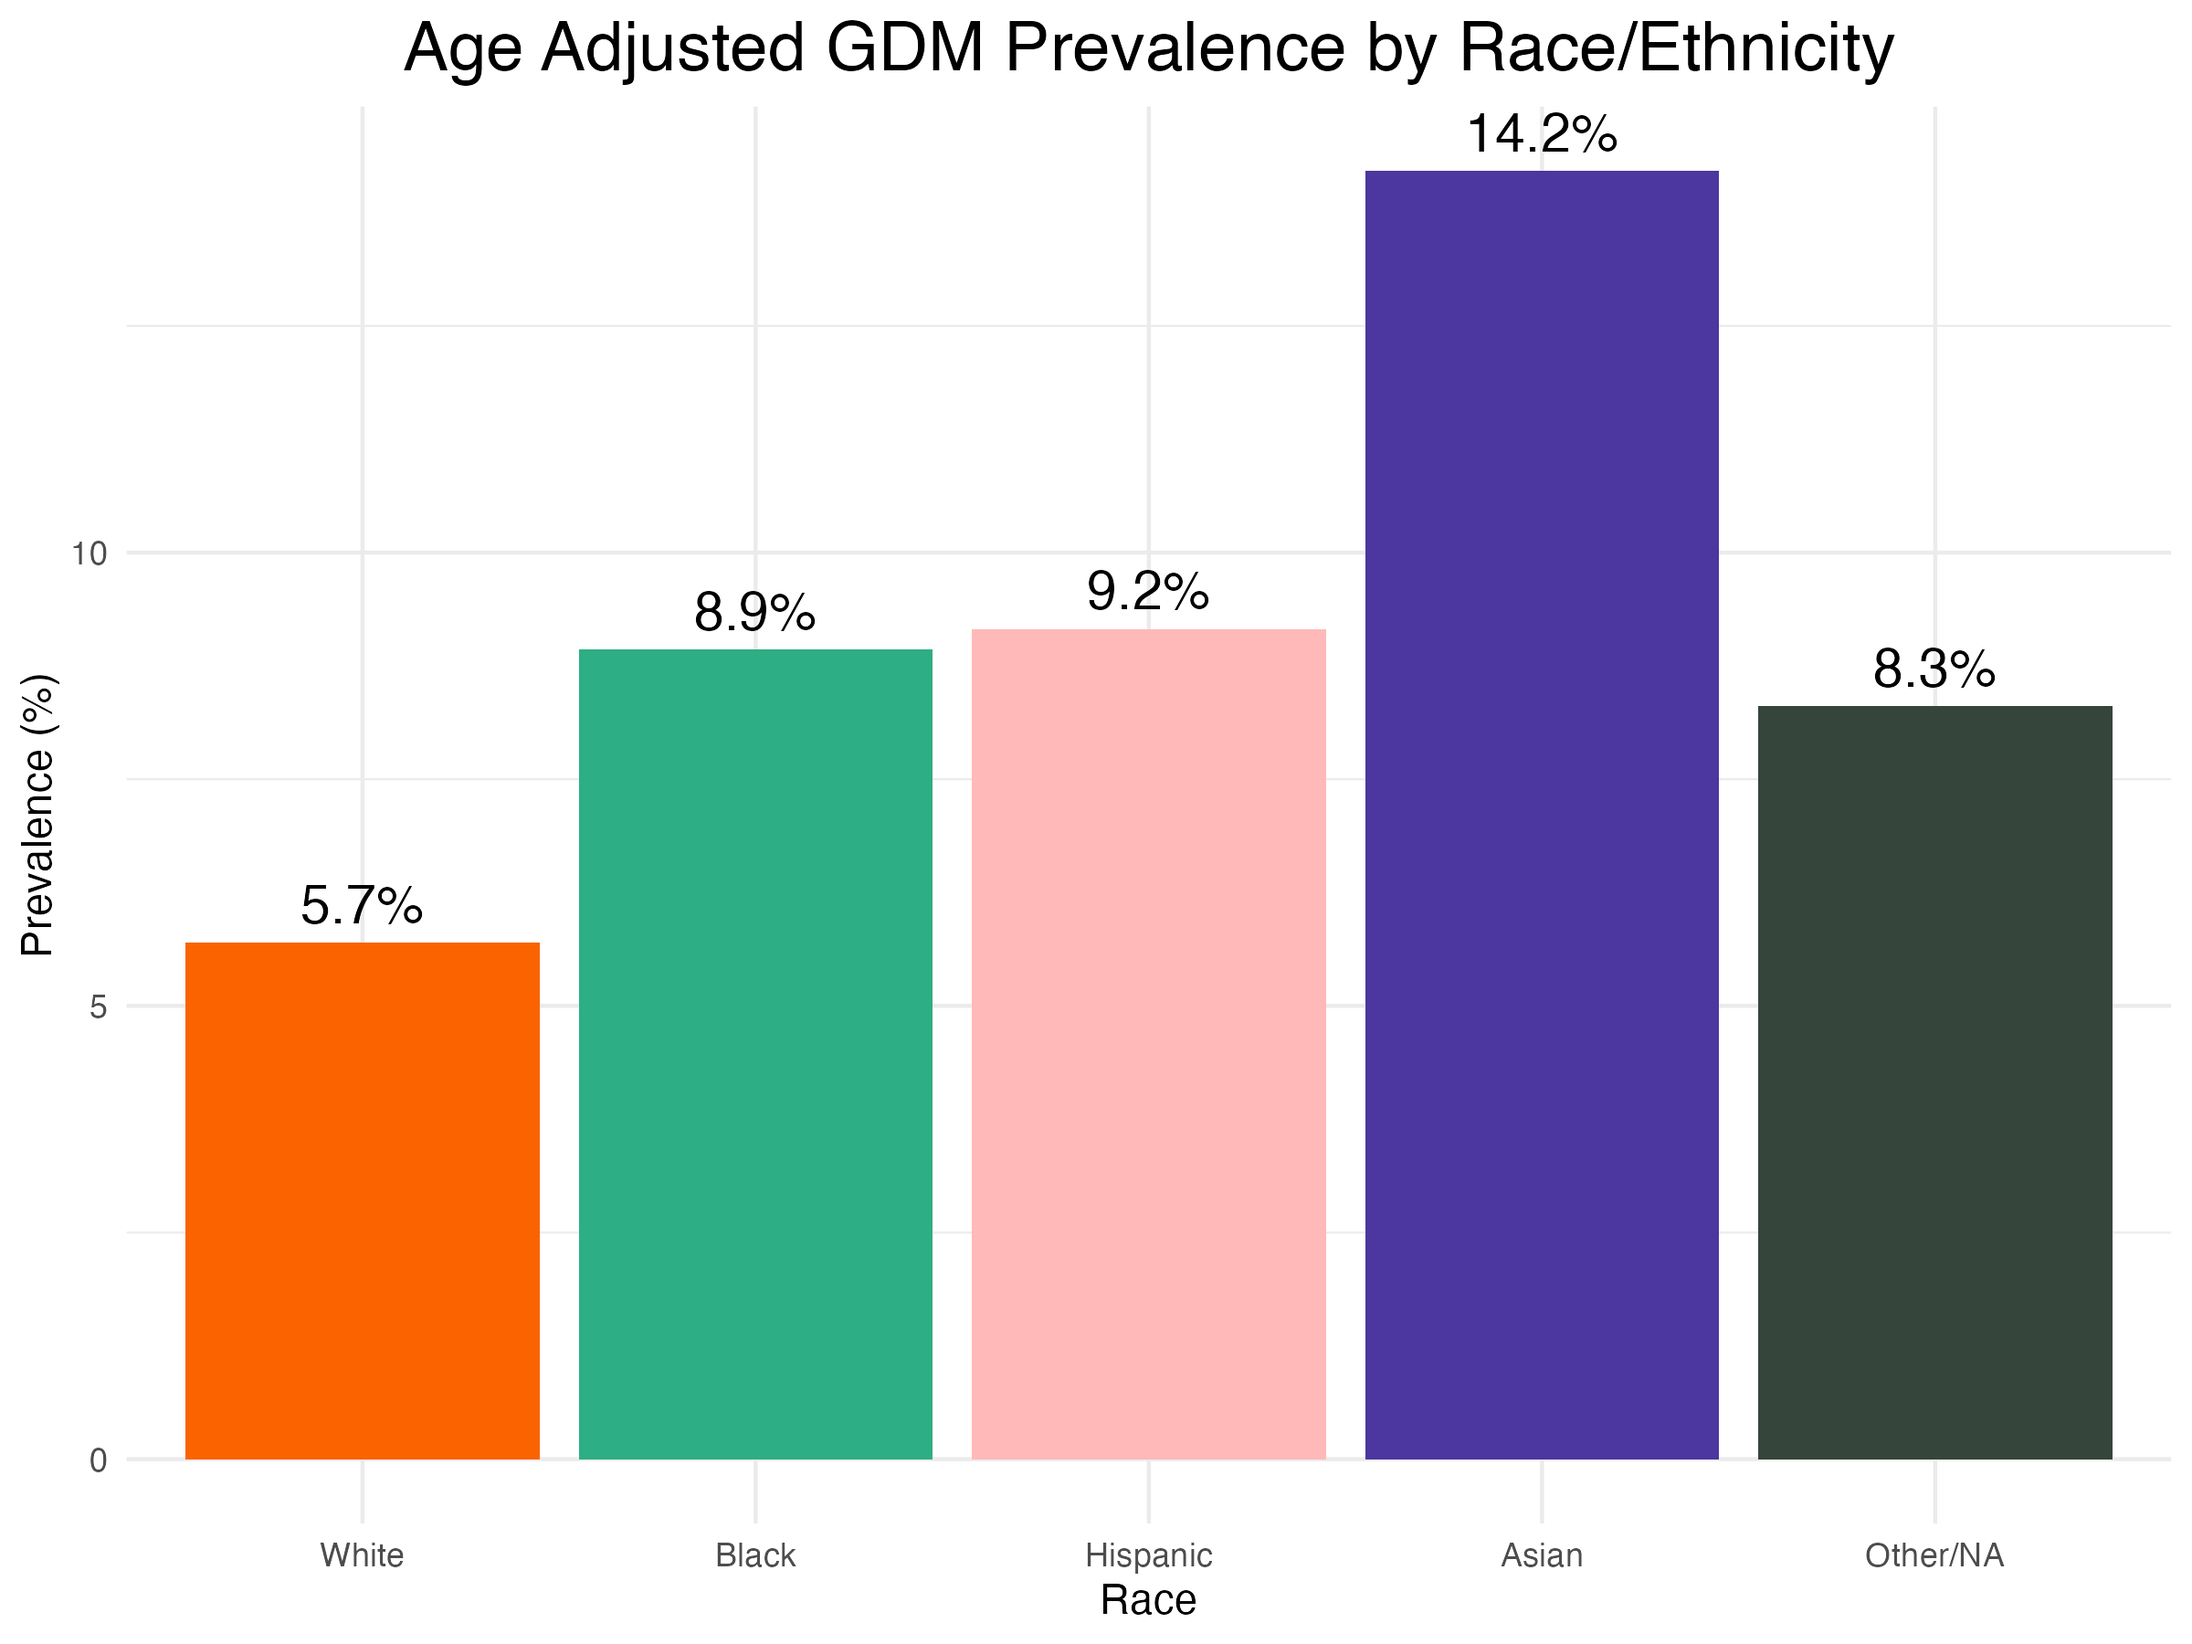
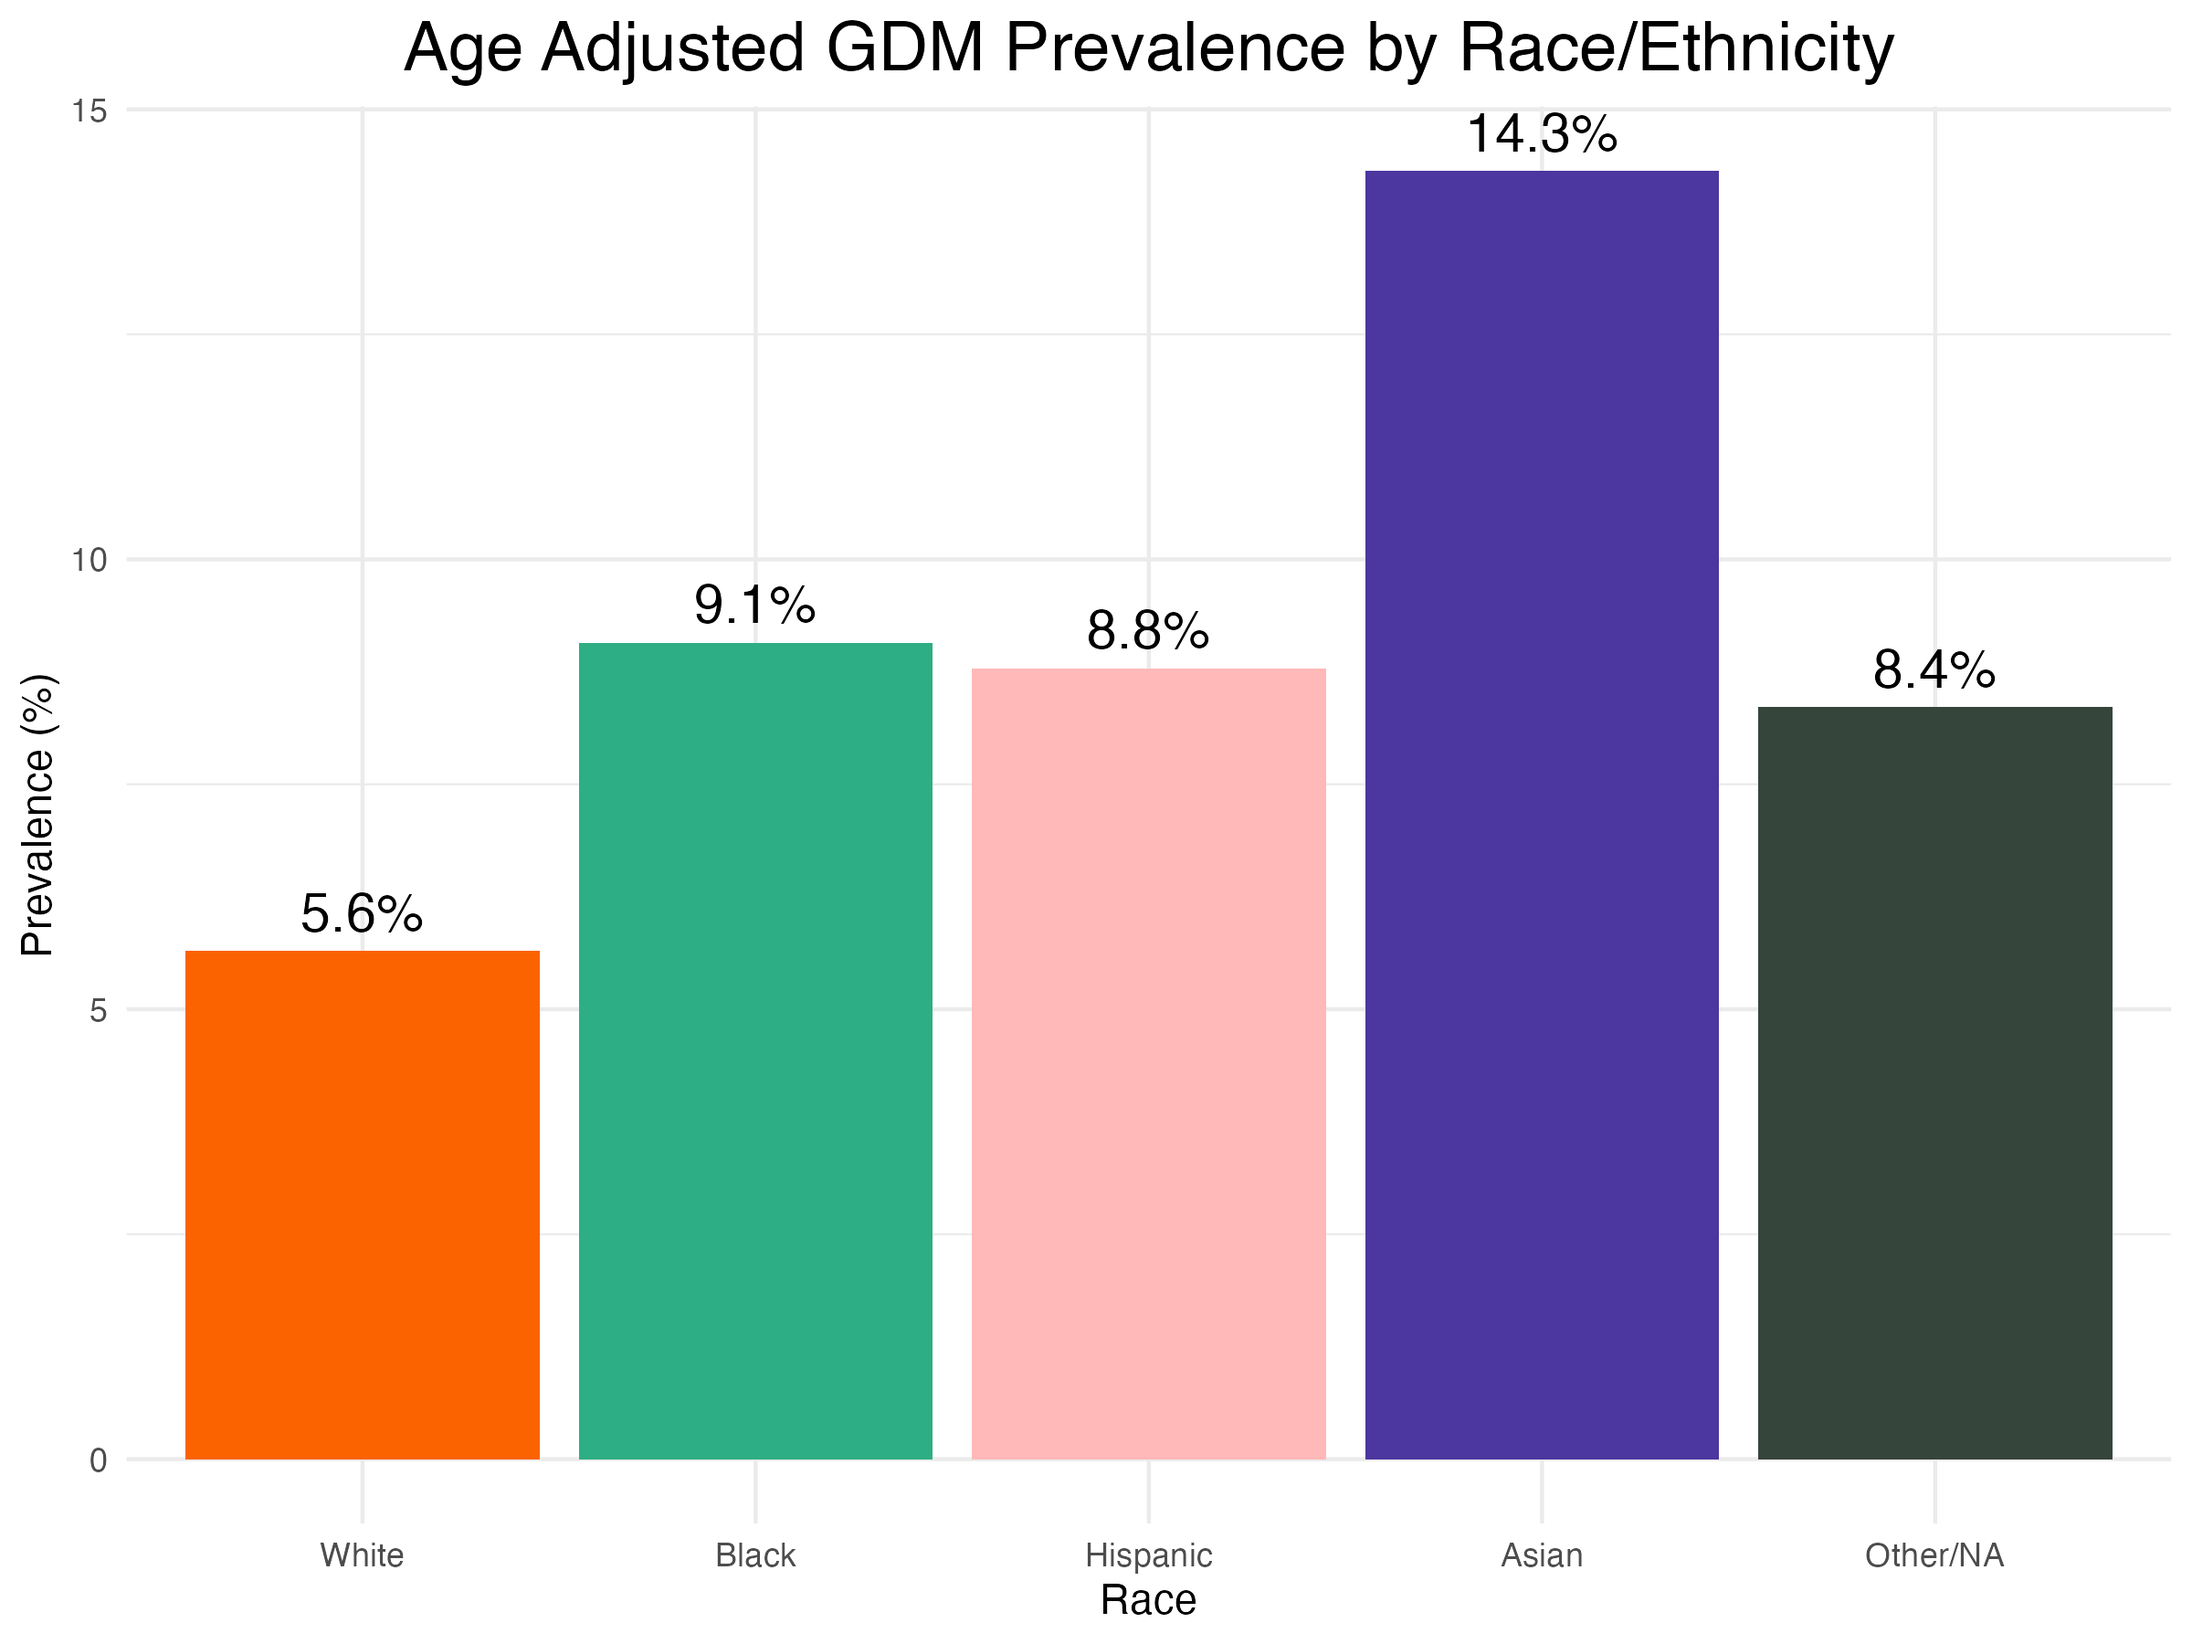
graphs and tables

diff --git a/regression_table.html b/regression_table.html
@@ -19,11 +19,11 @@
 <tr><td style="text-align:left">Age</td><td></td><td>1.062<sup>***</sup></td><td></td><td>1.064<sup>***</sup></td><td>1.064<sup>***</sup></td><td>1.079<sup>***</sup></td><td>1.054<sup>***</sup></td></tr>
 <tr><td style="text-align:left"></td><td></td><td>(0.006)</td><td></td><td>(0.006)</td><td>(0.007)</td><td>(0.010)</td><td>(0.008)</td></tr>
 <tr><td style="text-align:left"></td><td></td><td></td><td></td><td></td><td></td><td></td><td></td></tr>
-<tr><td style="text-align:left">Medicaid</td><td></td><td></td><td>1.095</td><td>1.369<sup>***</sup></td><td>1.139</td><td></td><td></td></tr>
-<tr><td style="text-align:left"></td><td></td><td></td><td>(0.077)</td><td>(0.101)</td><td>(0.090)</td><td></td><td></td></tr>
+<tr><td style="text-align:left">Medicaid</td><td></td><td></td><td>0.913</td><td>0.730<sup>***</sup></td><td>0.878</td><td></td><td></td></tr>
+<tr><td style="text-align:left"></td><td></td><td></td><td>(0.064)</td><td>(0.054)</td><td>(0.069)</td><td></td><td></td></tr>
 <tr><td style="text-align:left"></td><td></td><td></td><td></td><td></td><td></td><td></td><td></td></tr>
-<tr><td style="text-align:left">Constant</td><td>0.062<sup>***</sup></td><td>0.009<sup>***</sup></td><td>0.080<sup>***</sup></td><td>0.011<sup>***</sup></td><td>0.008<sup>***</sup></td><td>0.008<sup>***</sup></td><td>0.011<sup>***</sup></td></tr>
-<tr><td style="text-align:left"></td><td>(0.004)</td><td>(0.002)</td><td>(0.003)</td><td>(0.002)</td><td>(0.002)</td><td>(0.003)</td><td>(0.003)</td></tr>
+<tr><td style="text-align:left">Constant</td><td>0.062<sup>***</sup></td><td>0.009<sup>***</sup></td><td>0.088<sup>***</sup></td><td>0.015<sup>***</sup></td><td>0.010<sup>***</sup></td><td>0.008<sup>***</sup></td><td>0.011<sup>***</sup></td></tr>
+<tr><td style="text-align:left"></td><td>(0.004)</td><td>(0.002)</td><td>(0.005)</td><td>(0.003)</td><td>(0.002)</td><td>(0.003)</td><td>(0.003)</td></tr>
 <tr><td style="text-align:left"></td><td></td><td></td><td></td><td></td><td></td><td></td><td></td></tr>
 <tr><td colspan="8" style="border-bottom: 1px solid black"></td></tr><tr><td style="text-align:left">Observations</td><td>12,605</td><td>12,605</td><td>12,605</td><td>12,605</td><td>12,605</td><td>4,165</td><td>8,440</td></tr>
 <tr><td colspan="8" style="border-bottom: 1px solid black"></td></tr><tr><td style="text-align:left"><em>Note:</em></td><td colspan="7" style="text-align:right"><sup>*</sup>p<0.05; <sup>**</sup>p<0.01; <sup>***</sup>p<0.001</td></tr>

diff --git a/summary_table.html b/summary_table.html
@@ -1,16 +1,16 @@
 
 <table style="text-align:center"><caption><strong>Pregnancy Data Summary</strong></caption>
 <tr><td colspan="3" style="border-bottom: 1px solid black"></td></tr><tr><td style="text-align:left">Variable</td><td>All</td><td>GDM_Only</td></tr>
-<tr><td colspan="3" style="border-bottom: 1px solid black"></td></tr><tr><td style="text-align:left">N</td><td>12605</td><td>962</td></tr>
-<tr><td style="text-align:left">Mean_Age</td><td>29.92</td><td>31.6</td></tr>
-<tr><td style="text-align:left">White</td><td>5700</td><td>335</td></tr>
-<tr><td style="text-align:left">Black</td><td>2894</td><td>227</td></tr>
-<tr><td style="text-align:left">Hispanic</td><td>1270</td><td>100</td></tr>
-<tr><td style="text-align:left">Asian</td><td>1101</td><td>160</td></tr>
-<tr><td style="text-align:left">Other</td><td>1640</td><td>140</td></tr>
+<tr><td colspan="3" style="border-bottom: 1px solid black"></td></tr><tr><td style="text-align:left">N</td><td>12990</td><td>991</td></tr>
+<tr><td style="text-align:left">Mean_Age</td><td>29.91</td><td>31.61</td></tr>
+<tr><td style="text-align:left">White</td><td>5851</td><td>347</td></tr>
+<tr><td style="text-align:left">Black</td><td>3009</td><td>233</td></tr>
+<tr><td style="text-align:left">Hispanic</td><td>1324</td><td>107</td></tr>
+<tr><td style="text-align:left">Asian</td><td>1118</td><td>161</td></tr>
+<tr><td style="text-align:left">Other</td><td>1688</td><td>143</td></tr>
 <tr><td style="text-align:left">Private_Insurance</td><td>8440</td><td>626</td></tr>
 <tr><td style="text-align:left">Medicaid</td><td>4165</td><td>336</td></tr>
-<tr><td style="text-align:left">Medicare</td><td>0</td><td>0</td></tr>
-<tr><td style="text-align:left">Other_Insurance</td><td>0</td><td>0</td></tr>
-<tr><td style="text-align:left">GDM</td><td>962</td><td>962</td></tr>
+<tr><td style="text-align:left">Medicare</td><td>138</td><td>13</td></tr>
+<tr><td style="text-align:left">Other_Insurance</td><td>247</td><td>16</td></tr>
+<tr><td style="text-align:left">GDM</td><td>991</td><td>991</td></tr>
 <tr><td colspan="3" style="border-bottom: 1px solid black"></td></tr></table>
